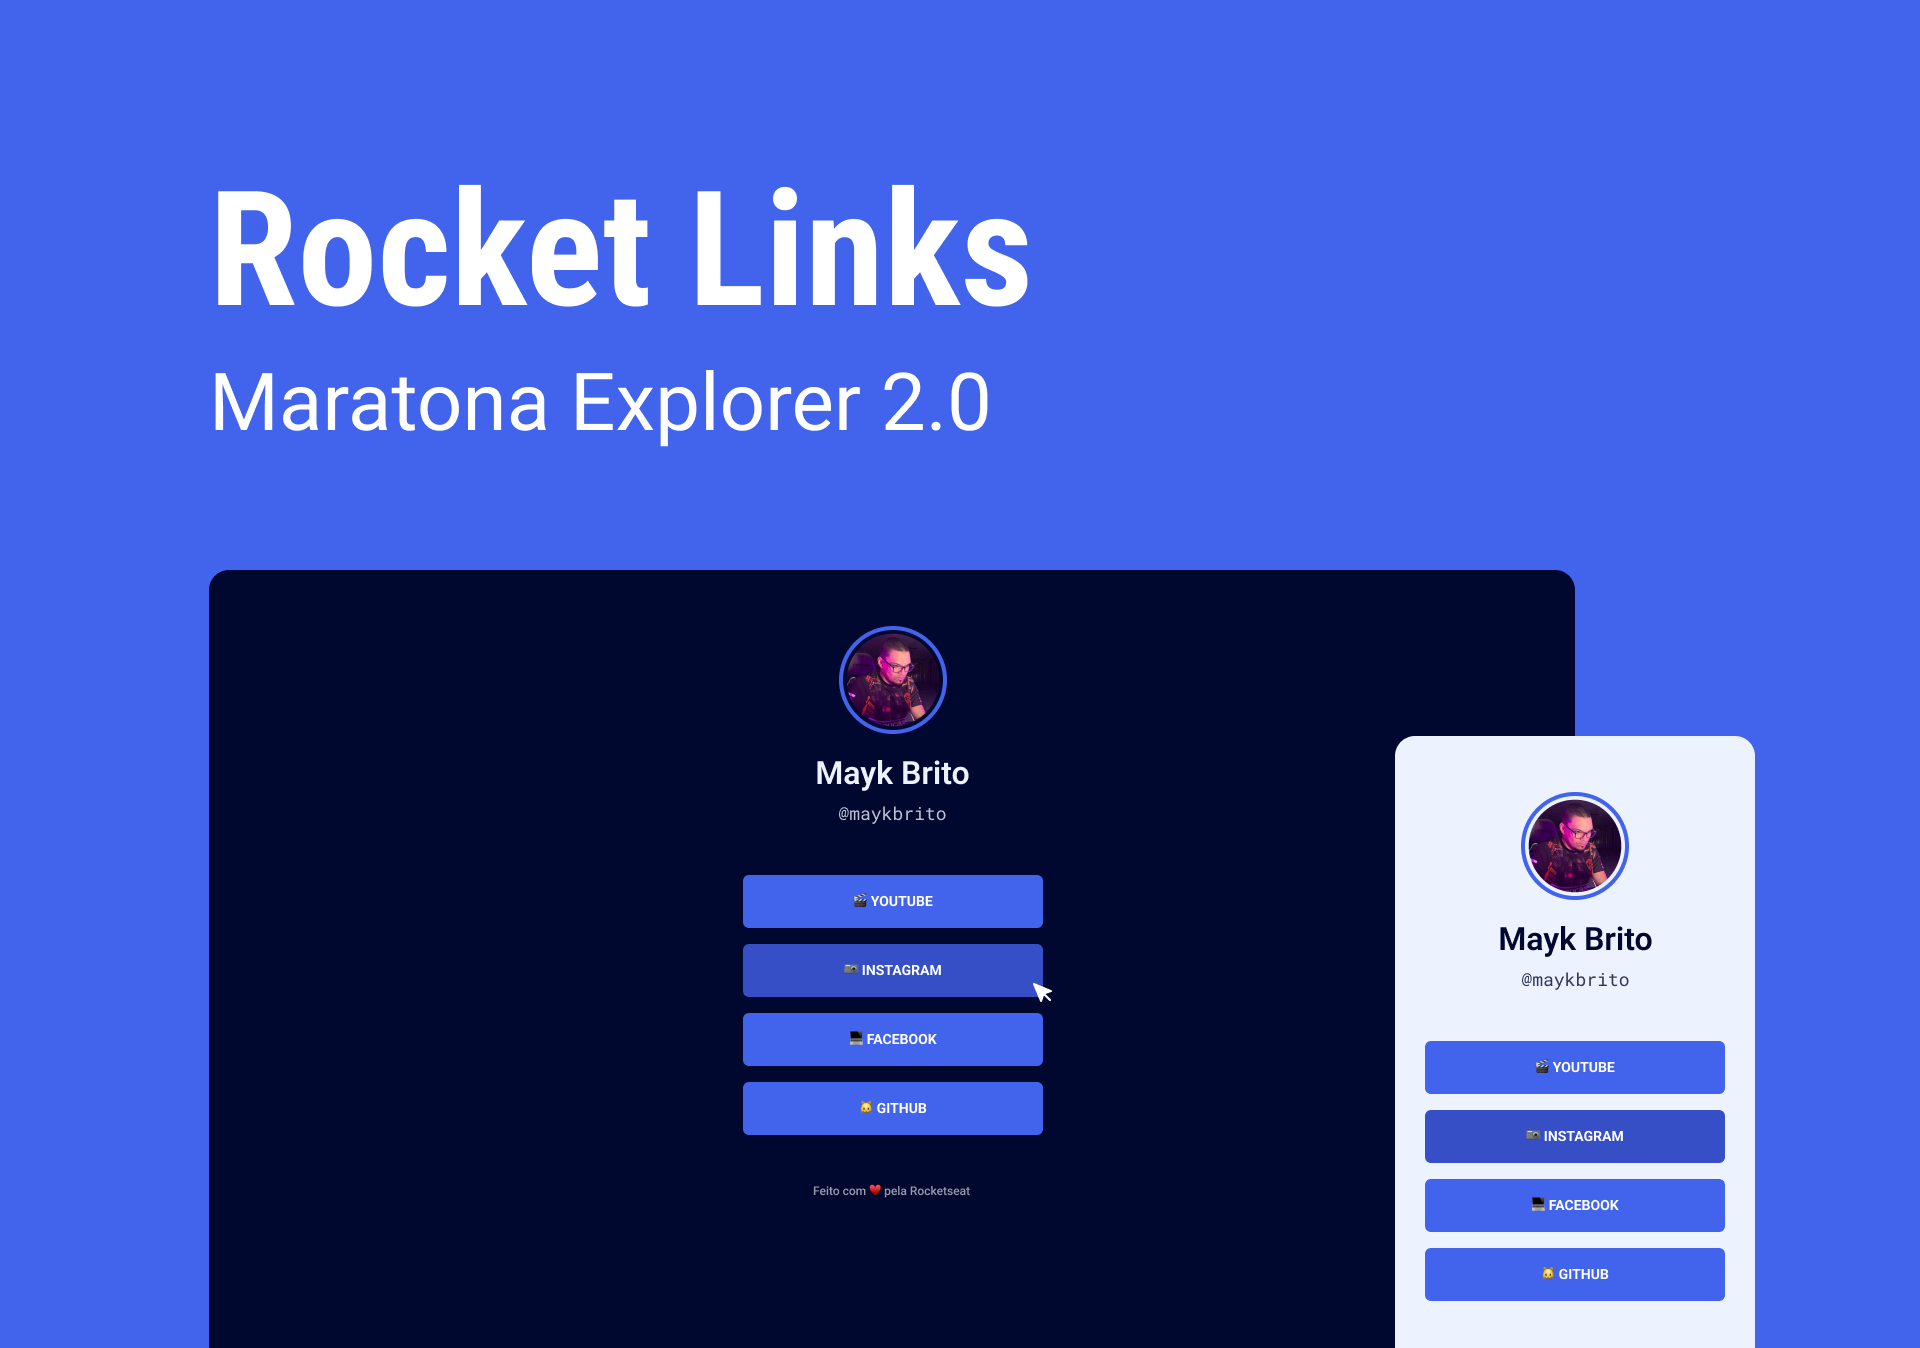
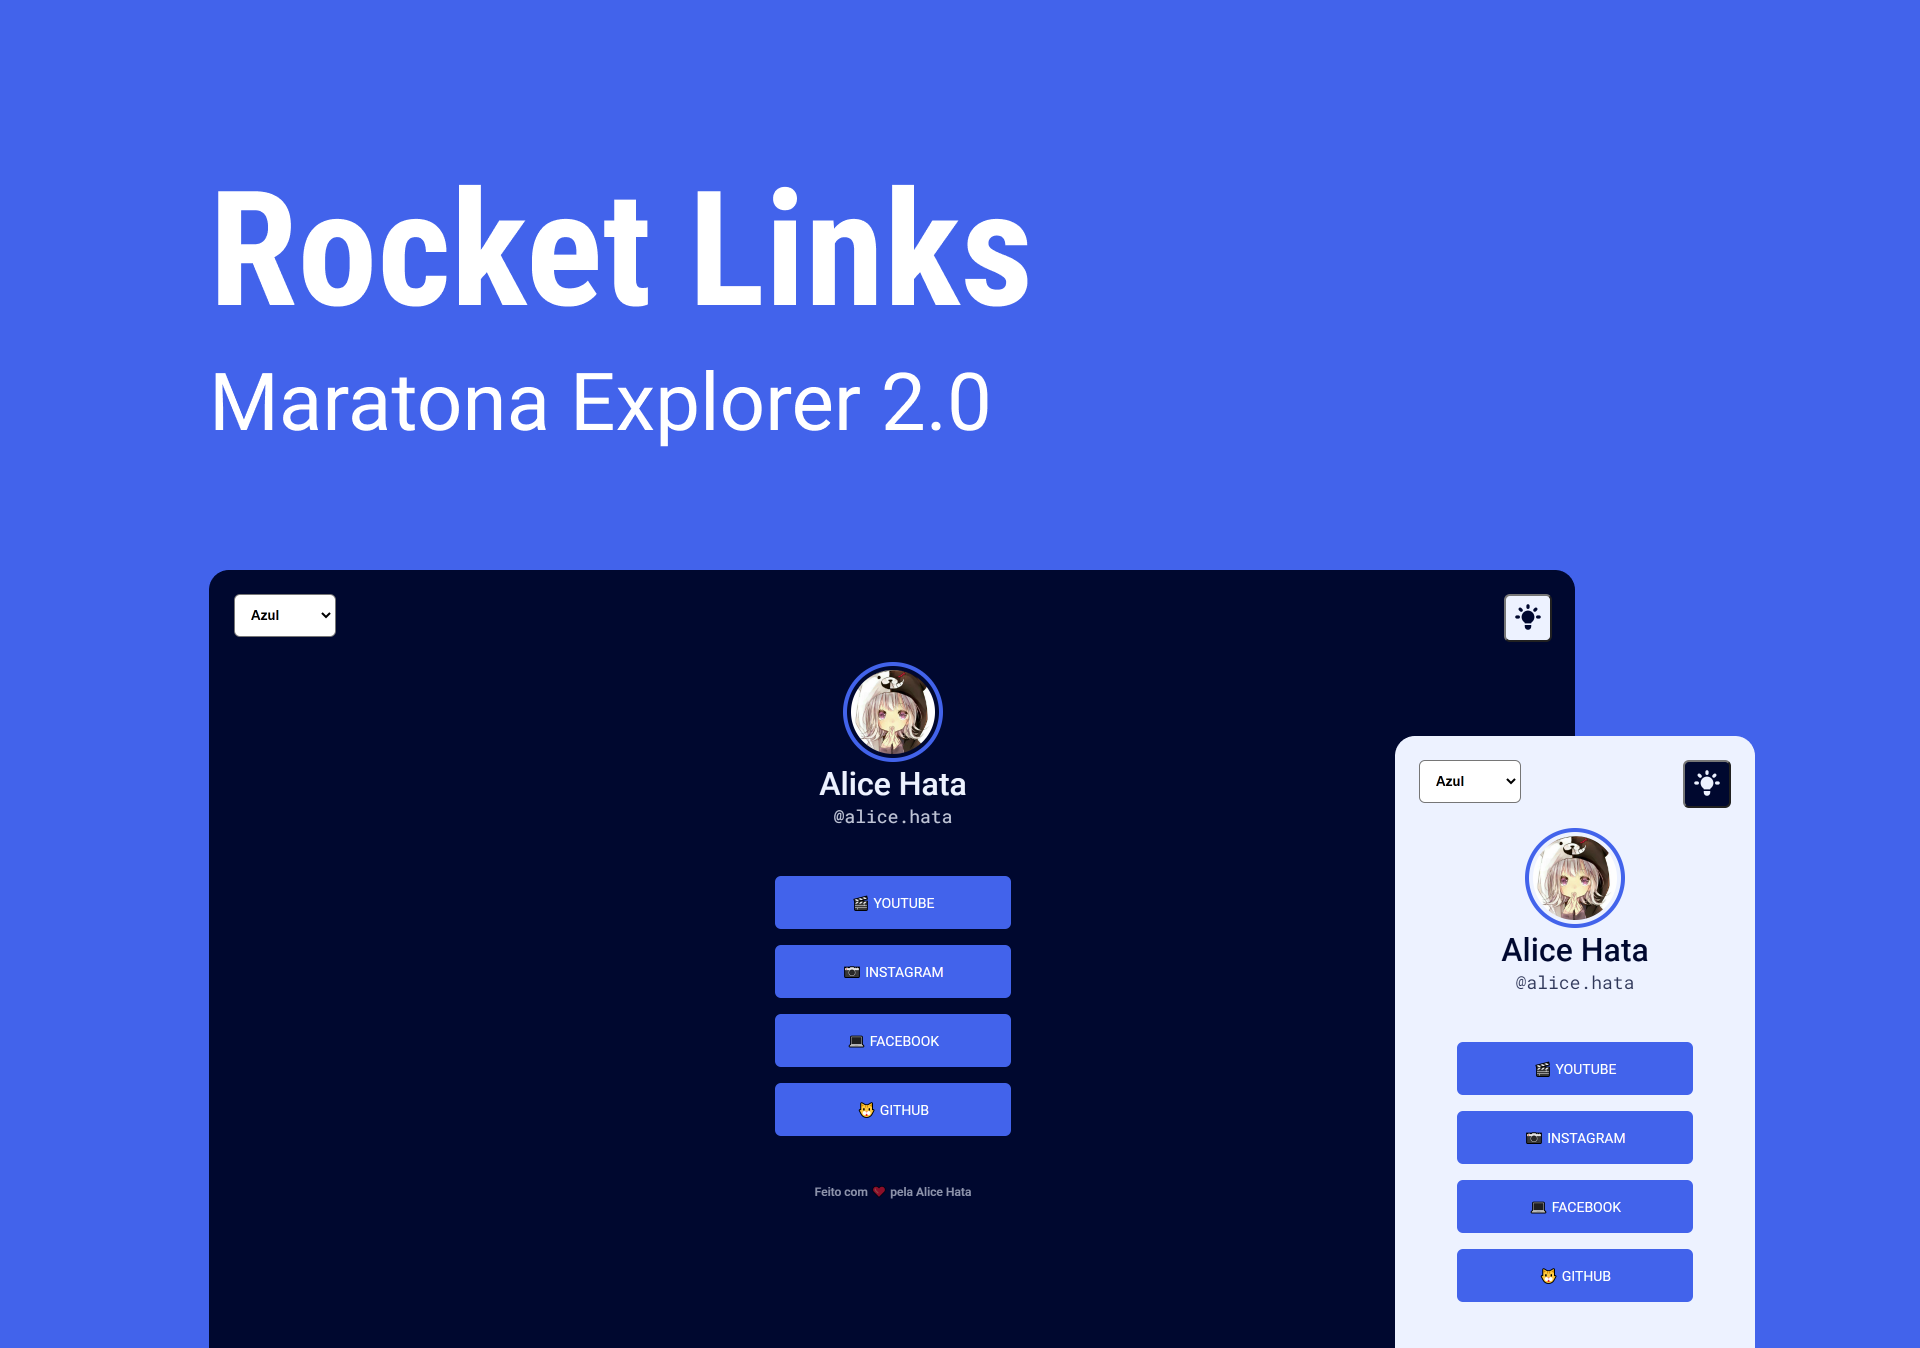
style: update themes

diff --git a/index.html b/index.html
@@ -1,5 +1,5 @@
 <!DOCTYPE html>
-<html lang="en">
+<html lang="pt-BR">
   <head>
     <meta charset="UTF-8" />
     <meta http-equiv="X-UA-Compatible" content="IE=edge" />
@@ -12,7 +12,7 @@
 
     <title>Rocket Links</title>
   </head>
-  <body>
+  <body class="pink">
     <div class="container">
       <img
         class="avatar"
@@ -38,10 +38,22 @@
           <a href="https://github.com/Alice7H" target="_blank"> 🐱 Github </a>
         </li>
       </ul>
+      <button class="mode" type="button" aria-label="Defina o modo claro ou escuro">
+        <svg width="26" height="26" viewBox="0 0 26 26" fill="none" xmlns="http://www.w3.org/2000/svg">
+          <path d="M14.6002 1.79995C14.6002 1.3756 14.4316 0.968638 14.1316 0.66858C13.8315 0.368522 13.4245 0.199951 13.0002 0.199951C12.5758 0.199951 12.1689 0.368522 11.8688 0.66858C11.5688 0.968638 11.4002 1.3756 11.4002 1.79995V3.39995C11.4002 3.8243 11.5688 4.23126 11.8688 4.53132C12.1689 4.83138 12.5758 4.99995 13.0002 4.99995C13.4245 4.99995 13.8315 4.83138 14.1316 4.53132C14.4316 4.23126 14.6002 3.8243 14.6002 3.39995V1.79995ZM22.0514 6.21115C22.3428 5.90939 22.5041 5.50522 22.5005 5.08571C22.4968 4.66619 22.3286 4.26489 22.0319 3.96824C21.7353 3.67159 21.334 3.50332 20.9144 3.49967C20.4949 3.49603 20.0908 3.6573 19.789 3.94875L18.6578 5.07995C18.3663 5.38171 18.2051 5.78588 18.2087 6.20539C18.2124 6.62491 18.3806 7.02621 18.6773 7.32286C18.9739 7.61951 19.3752 7.78778 19.7948 7.79143C20.2143 7.79508 20.6184 7.6338 20.9202 7.34235L22.0514 6.21115ZM25.8002 13C25.8002 13.4243 25.6316 13.8313 25.3316 14.1313C25.0315 14.4314 24.6245 14.6 24.2002 14.6H22.6002C22.1758 14.6 21.7689 14.4314 21.4688 14.1313C21.1688 13.8313 21.0002 13.4243 21.0002 13C21.0002 12.5756 21.1688 12.1686 21.4688 11.8686C21.7689 11.5685 22.1758 11.4 22.6002 11.4H24.2002C24.6245 11.4 25.0315 11.5685 25.3316 11.8686C25.6316 12.1686 25.8002 12.5756 25.8002 13ZM5.0802 7.34235C5.22779 7.49517 5.40434 7.61706 5.59955 7.70091C5.79475 7.78477 6.00471 7.82891 6.21715 7.83075C6.4296 7.8326 6.64029 7.79212 6.83692 7.71167C7.03356 7.63122 7.2122 7.51241 7.36243 7.36218C7.51266 7.21196 7.63146 7.03331 7.71191 6.83668C7.79236 6.64004 7.83284 6.42936 7.831 6.21691C7.82915 6.00446 7.78501 5.79451 7.70116 5.5993C7.6173 5.4041 7.49541 5.22755 7.3426 5.07995L6.2114 3.94875C5.90963 3.6573 5.50547 3.49603 5.08595 3.49967C4.66644 3.50332 4.26514 3.67159 3.96849 3.96824C3.67183 4.26489 3.50356 4.66619 3.49992 5.08571C3.49627 5.50522 3.65754 5.90939 3.949 6.21115L5.0802 7.34235ZM5.0002 13C5.0002 13.4243 4.83162 13.8313 4.53157 14.1313C4.23151 14.4314 3.82454 14.6 3.4002 14.6H1.8002C1.37585 14.6 0.968883 14.4314 0.668824 14.1313C0.368766 13.8313 0.200195 13.4243 0.200195 13C0.200195 12.5756 0.368766 12.1686 0.668824 11.8686C0.968883 11.5685 1.37585 11.4 1.8002 11.4H3.4002C3.82454 11.4 4.23151 11.5685 4.53157 11.8686C4.83162 12.1686 5.0002 12.5756 5.0002 13ZM9.8002 22.6V21H16.2002V22.6C16.2002 23.4486 15.8631 24.2626 15.2629 24.8627C14.6628 25.4628 13.8489 25.8 13.0002 25.8C12.1515 25.8 11.3376 25.4628 10.7375 24.8627C10.1373 24.2626 9.8002 23.4486 9.8002 22.6ZM16.2002 19.4C16.2242 18.856 16.533 18.3664 16.9634 18.0256C18.0077 17.202 18.7695 16.0735 19.1428 14.797C19.5162 13.5205 19.4826 12.1594 19.0467 10.9029C18.6109 9.64635 17.7944 8.55682 16.7108 7.78574C15.6271 7.01465 14.3302 6.60031 13.0002 6.60031C11.6702 6.60031 10.3733 7.01465 9.28964 7.78574C8.20601 8.55682 7.38951 9.64635 6.95365 10.9029C6.51778 12.1594 6.4842 13.5205 6.85757 14.797C7.23093 16.0735 7.9927 17.202 9.03699 18.0256C9.469 18.3664 9.7762 18.856 9.7986 19.4H16.2018H16.2002Z" fill="#EDF2FF"/>
+        </svg>
+      </button>
+      <select name="select" class="select-color" aria-label="Selecione uma cor de tema">
+        <option value="pink" selected>Rosa</option>
+        <option value="blue">Azul</option>
+        <option value="yellow">Amarelo</option>
+      </select>
+
       <footer>
         Feito com ❤ pela
         <a href="https://github.com/Alice7H" target="_blank">Alice Hata</a>
       </footer>
     </div>
+    <script src="./main.js"></script>
   </body>
 </html>

diff --git a/style.css b/style.css
@@ -1,27 +1,58 @@
+/* Global */
 * {
   margin: 0;
   padding: 0;
   box-sizing: border-box;
 }
-:root {
-  --white: #ffffff;
-
-  --lightBlue: #4263EB;
-  --blue: #364FC7;
-  --light: #EDF2FF;
-  --dark: #00082F;
-
-  --lightPink: #D6336C;
-  --pink: #A61E4D;
-  --light2: #FFF0F6;
-  --dark2: #1F000B;
-}
-body {
-  font-family: 'Roboto', sans-serif;
-  background-color: var(--light);
-}
 a {
   text-decoration: none;
+}
+html{
+  /* color default */
+  --primary-color: #D6336C;
+  --secondary-color: #A61E4D;
+  --bg-color: #FFF0F6;
+  --text-color: #1F000B;
+}
+/* Theme colors */
+body.dark-pink{
+  --bg-color: #1F000B;
+  --text-color: #FFF0F6;
+}
+
+body.blue,
+body.dark-blue {
+  --primary-color: #4263EB;
+  --secondary-color: #364FC7;
+}
+body.blue {
+  --bg-color: #EDF2FF;
+  --text-color: #00082F;
+}
+body.dark-blue{
+  --bg-color: #00082F;
+  --text-color: #EDF2FF;
+} 
+
+body.yellow,
+body.dark-yellow{
+  --primary-color: #FBBC05;
+  --secondary-color: #CA9703;
+}
+body.yellow{
+  --bg-color: #FFF8E7;
+  --text-color: #1B1401;
+}
+body.dark-yellow{
+  --bg-color: #1B1401;
+  --text-color: #FFF8E7;
+}
+
+/* Style page */
+body {
+  font-family: 'Roboto', sans-serif;
+  background-color: var(--bg-color);
+  color: var(--text-color);
 }
 .container{
   text-align: center;
@@ -35,18 +66,16 @@ img{
 img.avatar{
  width: 100px;
  height: 100px;
- border: 4px solid var(--lightBlue);
+ border: 4px solid var(--primary-color);
  border-radius: 50%;
  padding: 3.7px;
 }
 h1 {
-  color: var(--dark);
   font-size: 2rem; 
   font-weight: 500;
   line-height: 37.5px;
 }
 .username {
-  color: var(--dark);
   font-family: 'Roboto Mono', monospace;
   font-size: 1.125rem;
   font-weight: 400;
@@ -60,8 +89,8 @@ ul li a {
   display: flex;
   align-items: center;
   justify-content: center;
-  background: var(--lightBlue); 
-  color: var(--white);
+  background: var(--primary-color); 
+  color: white;
   height: 53px;
   text-transform: uppercase;
   font-size: 0.875rem;
@@ -71,14 +100,39 @@ ul li a {
   transition: background 400ms;
 }
 ul li a:hover {
-  background: var(--blue);
+  background: var(--secondary-color);
 }
 
-/* footer */
+/* Button mode */
+.mode {
+  position: absolute;
+  top: 24px;
+  right: 24px;
+  background-color: var(--text-color);
+  width: 48px;
+  height: 48px;
+  border-radius: 6px;
+  transition: background 400ms;
+  cursor: pointer;
+}
+path{
+  fill: var(--bg-color);
+}
+
+/* Select color theme */
+.select-color {
+  position: absolute;
+  top: 24px;
+  left: 24px;
+  padding: .75rem;
+  font-weight: bold;
+  border-radius: 6px;
+}
+
+/* Footer */
 footer {
   font-weight: 500;
   font-size: .75rem;
-  color: var(--dark);
   line-height: 16px;
   opacity: 0.6;
   transition: opacity 400ms;
@@ -87,5 +141,5 @@ footer:hover {
   opacity: 1;
 }
 footer a{
-  color: var(--dark);
+  color: var(--text-color);
 }

diff --git a/main.js b/main.js
@@ -1,0 +1,27 @@
+const toggleTheme = document.querySelector('.mode');
+const theme = document.querySelector('body');
+const selectedColor = document.querySelector('select');
+
+const clearClass = () => theme.removeAttribute('class');
+const addClass = (className) => theme.classList.add(className);
+const colorSelected = () => theme.classList.value;
+
+toggleTheme.addEventListener('click', () => {
+  const color = colorSelected();
+  clearClass();
+  if (color === 'blue' || color === 'pink' || color === 'yellow') {
+    addClass(`dark-${color}`);
+  } else {
+    if (color.includes('pink') | color.includes('blue') | color.includes('yellow')) {
+      const result = color.split('-');
+      addClass(result[1]);
+    } else {
+      addClass('pink');
+    }
+  }
+});
+
+selectedColor.addEventListener('change', () => {
+  clearClass();
+  addClass(selectedColor.value);
+})

diff --git a/README.md b/README.md
@@ -7,3 +7,15 @@
 Este projeto tem o objetivo de exibir links que podem ser adicionados à bio do Instagram.
 
 Design do projeto disponível no [Figma](https://www.figma.com/community/file/1125601602315782027)
+
+## Aulas
+
+- [x] Aula 1 - Apresentação do projeto
+- [x] Aula 2 - Utilizando HTML
+- [x] Aula 3 - Estilizando o site
+- [x] Aula 4 - Colocando o projeto no mundo
+
+## Extras
+
+- [x] Modo light/dark no site
+- [x] Mudar a cor de tema blue, pink e yellow no site
